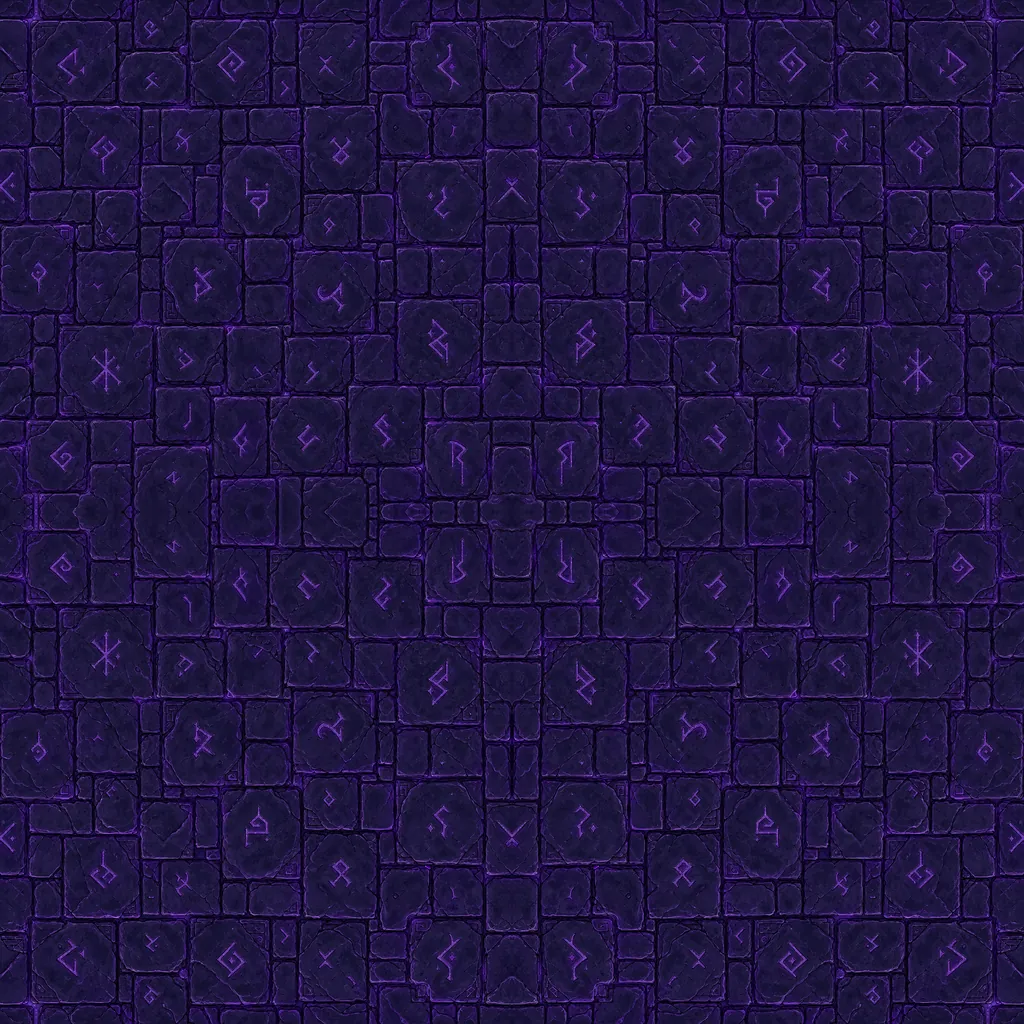
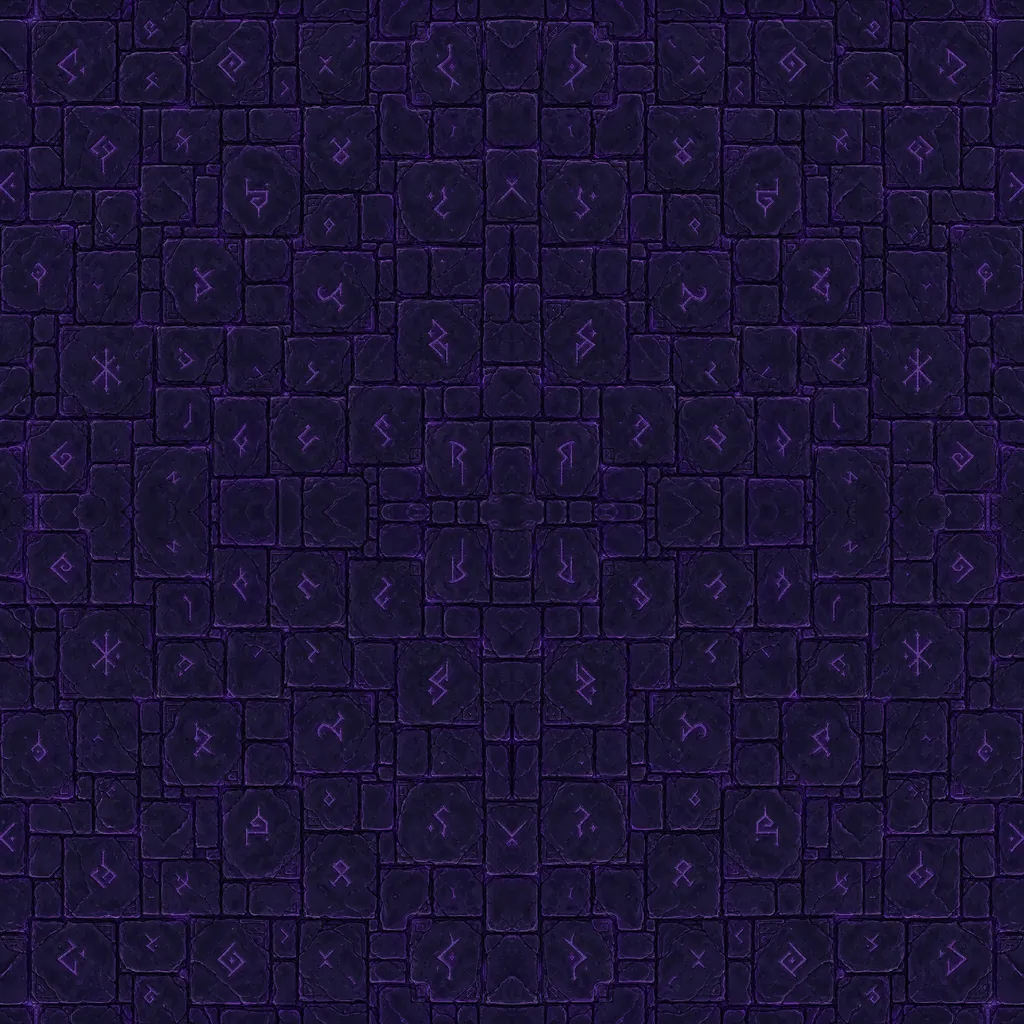
Stage environments and readability tweaks
- Twelve new painted scenery pieces, three per stage: cages, broken walls and
  racks (Undercroft); bone heaps, coffins and black water (Catacombs);
  statues, burning pews and stained glass (Cathedral); crystals, obsidian
  spires and rift cracks (Abyss). Tall pieces are depth-sorted and solid,
  flat ones lie on the floor, glowing ones light the dark
- Floors toned to a richer middle brightness
- Fewer normal damage numbers in big fights; crits and big hits always show

Claude-Session: https://claude.ai/code/session_01Y7EHTCx1VVqY7PxuTGtBVF

diff --git a/index.html b/index.html
@@ -1203,6 +1203,7 @@ window.addEventListener('resize', resize); resize();
 
 /* ---------------- Painted art: loading and sprite caches ---------------- */
 const IMG = {}, SPR = {};
+const STAGE_ENV_LIST = { undercroft: ['env_cage', 'env_wall', 'env_rack'], catacombs: ['env_bones', 'env_coffin', 'env_puddle'], cathedral: ['env_statue', 'env_pew', 'env_glass'], abyss: ['env_crystal', 'env_spire', 'env_crack'] };
 const IMG_NAMES = [
   ...['knight', 'sorcerer', 'pyromancer', 'wanderer', 'cleric'].map(k => 'hero_' + k),
   ...['hollow', 'rat', 'skeleton', 'wraith', 'cultist', 'dknight'].map(k => 'foe_' + k),
@@ -1213,6 +1214,7 @@ const IMG_NAMES = [
   ...['wood', 'iron', 'ember'].flatMap(k => [`chest_${k}_0`, `chest_${k}_1`]),
   'cur_gold', 'cur_sigil', 'cur_ember', 'prop_urn',
   ...['pillar', 'brazier', 'candles', 'tomb', 'shrine'].map(k => 'prop_' + k),
+  ...Object.values(STAGE_ENV_LIST).flat(),
   ...['undercroft', 'catacombs', 'cathedral', 'abyss'].flatMap(k => ['floor_' + k, 'stage_' + k]),
 ];
 const assetUrl = n => 'assets/' + n + '.webp';
@@ -1404,10 +1406,16 @@ function setFloor(st) {
 /* ---------------- World features ---------------- */
 const CHUNK = 480;
 const chunkCache = new Map();
+// per-stage scenery: tall pieces are depth-sorted and solid, flat pieces lie on the floor
+const STAGE_ENV = { undercroft: ['env_cage', 'env_wall', 'env_rack'], catacombs: ['env_bones', 'env_coffin', 'env_puddle'], cathedral: ['env_statue', 'env_pew', 'env_glass'], abyss: ['env_crystal', 'env_spire', 'env_crack'] };
+const ENV_FLAT = new Set(['env_puddle', 'env_glass', 'env_crack']);
+const ENV_H = { env_cage: 88, env_wall: 70, env_rack: 66, env_bones: 46, env_coffin: 58, env_puddle: 96, env_statue: 104, env_pew: 54, env_glass: 76, env_crystal: 86, env_spire: 112, env_crack: 100 };
+const ENV_R = { env_cage: 30, env_wall: 30, env_rack: 22, env_bones: 0, env_coffin: 24, env_statue: 22, env_pew: 0, env_crystal: 24, env_spire: 18 };
+const ENV_GLOW = { env_puddle: '80,220,200', env_statue: '255,140,60', env_pew: '255,150,60', env_crystal: '190,120,255', env_spire: '170,100,255', env_crack: '190,110,255', env_coffin: '80,220,180' };
 function chunkAt(cx, cy) {
-  const key = cx + ',' + cy; let c = chunkCache.get(key);
+  const sg = G ? G.stage : 0, key = cx + ',' + cy + ',' + sg; let c = chunkCache.get(key);
   if (c) return c;
-  c = { pillar: null, decals: [] };
+  c = { pillar: null, decals: [], env: [] };
   if (!(Math.abs(cx) <= 0 && Math.abs(cy) <= 0)) {
     if (hash(cx, cy, 1) < 0.5) {
       const r = 20 + hash(cx, cy, 2) * 12;
@@ -1428,14 +1436,25 @@ function chunkAt(cx, cy) {
     if (kind === 'candles') { p.c = []; const n = 3 + Math.floor(hash(cx, i, 35) * 3); for (let k = 0; k < n; k++) p.c.push([(hash(k, cx, 36) - 0.5) * 18, (hash(k, cy, 37) - 0.5) * 7, 5 + hash(k, i, 38) * 9]); }
     c.props.push(p);
   }
+  const kinds = STAGE_ENV[STAGES[sg].id];
+  if (kinds && !(cx === 0 && cy === 0)) for (let i = 0; i < 3; i++) {
+    const h = hash(cx * 11 + i, cy * 13 - i, 41); if (h > 0.5) continue;
+    const x = cx * CHUNK + 50 + hash(cx, cy + i, 42) * (CHUNK - 100), y = cy * CHUNK + 50 + hash(cx + i, cy, 43) * (CHUNK - 100);
+    if (c.pillar && Math.hypot(x - c.pillar.x, y - c.pillar.y) < 110) continue;
+    if (c.env.some(e => Math.hypot(x - e.x, y - e.y) < 120)) continue;
+    const kind = kinds[Math.floor(hash(cx * 3 + i, cy, 44) * kinds.length) % kinds.length];
+    c.env.push({ x, y, kind, flip: hash(cx, cy * 5 + i, 45) < 0.5 ? -1 : 1, s: 0.85 + hash(cx + i * 7, cy, 46) * 0.35, flat: ENV_FLAT.has(kind), r: (ENV_R[kind] || 0) });
+  }
   if (chunkCache.size > 4000) chunkCache.clear();
   chunkCache.set(key, c); return c;
 }
 function collidePillar(o) {
   const c = chunkAt(Math.floor(o.x / CHUNK), Math.floor(o.y / CHUNK));
-  const p = c.pillar; if (!p) return;
-  const dx = o.x - p.x, dy = o.y - p.y, rr = p.r + o.r, dd = dx * dx + dy * dy;
-  if (dd < rr * rr) { const d = Math.sqrt(dd) || 1; o.x = p.x + dx / d * rr; o.y = p.y + dy / d * rr; }
+  const p = c.pillar;
+  if (p) { const dx = o.x - p.x, dy = o.y - p.y, rr = p.r + o.r, dd = dx * dx + dy * dy;
+    if (dd < rr * rr) { const d = Math.sqrt(dd) || 1; o.x = p.x + dx / d * rr; o.y = p.y + dy / d * rr; } }
+  for (const e of c.env) { if (!e.r) continue; const ey = e.y - 6, dx = o.x - e.x, dy = o.y - ey, rr = e.r * e.s + o.r, dd = dx * dx + dy * dy;
+    if (dd < rr * rr) { const d = Math.sqrt(dd) || 1; o.x = e.x + dx / d * rr; o.y = ey + dy / d * rr; } }
 }
 
 /* ---------------- Definitions ---------------- */
@@ -1810,7 +1829,7 @@ function damageEnemy(e, dmg, kx = 0, ky = 0) {
   e.hp -= dmg; e.flash = 0.08; G.dmgDealt += dmg;
   if (G.mode === 'wboss' && e.boss) G.dun.wdmg = (G.dun.wdmg || 0) + dmg;
   if (!e.boss) { const m = 1 / e.mass; e.kbx += kx * m; e.kby += ky * m; }
-  if (G.texts.length < 90) G.texts.push({ x: e.x + rand(-10, 10), y: e.y - e.r - 6, v: Math.round(dmg), t: 0, big: dmg > 60, crit, vx: rand(-14, 14) });
+  if (G.texts.length < (crit || dmg > 60 ? 50 : 14)) G.texts.push({ x: e.x + rand(-10, 10), y: e.y - e.r - 6, v: Math.round(dmg), t: 0, big: dmg > 60, crit, vx: rand(-14, 14) });
   if (G.parts.length < 520) for (let i = 0; i < (crit ? 5 : 2); i++) { const a = Math.random() * TAU, sp = rand(60, 180); G.parts.push({ x: e.x, y: e.y - 4, vx: Math.cos(a) * sp, vy: Math.sin(a) * sp, t: 0, life: 0.18, c: crit ? 'rgba(255,190,90,1)' : 'rgba(255,240,210,0.9)', s: 1.3, glow: true }); }
   SND.hit();
   if (e.hp <= 0) killEnemy(e);
@@ -3000,6 +3019,15 @@ function drawPropGlow(p) {
     for (let i = 0; i < 8; i++) { const a1 = p.rot - t * 0.3 + i / 8 * TAU; c.fillStyle = `rgba(${gc},${a + 0.2})`; c.fillRect(p.x + Math.cos(a1) * 24.5 - 1, p.y + Math.sin(a1) * 24.5 - 1, 2, 2); }
   }
 }
+function drawEnvFlat(e) {
+  const s = spr(e.kind, Math.round(ENV_H[e.kind])); if (!s) return;
+  const w = s.w * e.s, h = s.h * e.s; ctx.drawImage(s.c, e.x - w / 2, e.y - h / 2, w, h);
+}
+function drawEnvTall(e) {
+  const s = spr(e.kind, Math.round(ENV_H[e.kind])); if (!s) return;
+  shadowAt(ctx, e.x, e.y - 2, s.w * e.s * 0.42, s.w * e.s * 0.14, 0.42);
+  blit(ctx, s, e.x, e.y + 6, e.flip, 0, e.s, e.s, 0);
+}
 function drawPillar(p) {
   const c = ctx, r = p.r;
   const ps = spr(p.brazier ? 'prop_brazier' : 'prop_pillar', p.brazier ? SPR_H.prop_brazier : Math.round(r * 2.8));
@@ -3185,7 +3213,9 @@ function render() {
   c.fillStyle = floorPattern; c.fillRect(v.x0, v.y0, v.x1 - v.x0, v.y1 - v.y0);
   const cx0 = Math.floor(v.x0 / CHUNK), cx1 = Math.floor(v.x1 / CHUNK), cy0 = Math.floor(v.y0 / CHUNK), cy1 = Math.floor(v.y1 / CHUNK);
   const pillars = [], props = [];
-  for (let x = cx0; x <= cx1; x++) for (let y = cy0; y <= cy1; y++) { const ch = chunkAt(x, y); for (const d of ch.decals) drawDecal(d); if (ch.pillar) pillars.push(ch.pillar); for (const p of ch.props) props.push(p); }
+  const envs = [];
+  for (let x = cx0; x <= cx1; x++) for (let y = cy0; y <= cy1; y++) { const ch = chunkAt(x, y); for (const d of ch.decals) drawDecal(d); if (ch.pillar) pillars.push(ch.pillar); for (const p of ch.props) props.push(p); for (const e of ch.env) envs.push(e); }
+  for (const e of envs) if (e.flat) drawEnvFlat(e);
   for (const p of props) drawProp(p);
   if (G.flameF) drawVigil();
   c.globalAlpha = 0.5; for (const d of G.decals) if (d.x > v.x0 && d.x < v.x1 && d.y > v.y0 && d.y < v.y1) drawGore(d); c.globalAlpha = 1;
@@ -3245,13 +3275,14 @@ function render() {
   const ents = [];
   for (const e of G.enemies) if (e.x > v.x0 && e.x < v.x1 && e.y > v.y0 && e.y < v.y1 + 40) ents.push(e);
   for (const p of pillars) ents.push({ pillar: p, y: p.y });
+  for (const e of envs) if (!e.flat) ents.push({ envp: e, y: e.y });
   ents.push({ player: true, y: P.y });
   if (G.fam) ents.push({ famEnt: true, y: G.fam.y + 40 });
   ents.sort((a, b) => a.y - b.y);
   EYES.length = 0;
   for (const p of G.parts) if (p.ghost) { c.globalAlpha = 0.35 * (1 - p.t / p.life); c.fillStyle = (LOOKS[P.cls] || LOOKS.knight).cloak; ellipse(c, p.x, p.y - 2, 8, 11); }
   c.globalAlpha = 1;
-  for (const e of ents) { if (e.pillar) drawPillar(e.pillar); else if (e.player) drawPlayer(); else if (e.famEnt) drawFam(); else drawEnemy(e); }
+  for (const e of ents) { if (e.pillar) drawPillar(e.pillar); else if (e.envp) drawEnvTall(e.envp); else if (e.player) drawPlayer(); else if (e.famEnt) drawFam(); else drawEnemy(e); }
   for (const e of ents) if (e.stun > 0 || e.broken > 0) { const hy = e.y - (e.boss ? 150 : 52); for (let i = 0; i < 3; i++) { const a = G.t * 5 + i * TAU / 3, sx = e.x + Math.cos(a) * (e.boss ? 26 : 12), sy = hy + Math.sin(a) * 4; c.fillStyle = '#ffe08a'; c.save(); c.translate(sx, sy); c.rotate(Math.PI / 4); c.fillRect(-3, -3, 6, 6); c.restore(); } }
   if (G.boss && G.boss.phase === 'swipeTele') {
     const b = G.boss, R = b.r + 95, k = 1 - Math.max(0, b.ct) / 0.7, gold = b.ct < 0.32;
@@ -3317,6 +3348,7 @@ function render() {
   for (const p of props) if (p.kind === 'candles') lights.push([p.x, p.y - 6, 120 * (1 + Math.sin(G.t * 10 + p.rot) * 0.06), 0.8]); else if (p.kind === 'rune') lights.push([p.x, p.y, 80, 0.45]);
   for (const s of G.shrines) if (!s.used || s.t < 500) lights.push([s.x, s.y - 14, s.used ? 120 : 220, 0.95]);
   for (const ch of G.chests) lights.push([ch.x, ch.y, 110, 0.85]);
+  for (const e of envs) if (ENV_GLOW[e.kind]) lights.push([e.x, e.y - (e.flat ? 0 : 30), 110 * e.s, 0.55]);
   if (G.crystal) lights.push([G.crystal.x, G.crystal.y - 30, 280, 1]);
   let nl = 0;
   for (const p of G.proj) { if (nl >= 18) break; if (p.kind === 'fire' || p.kind === 'lance' || p.kind === 'scythe') { nl++; lights.push([p.x, p.y, 100, 0.75]); } else if (p.kind === 'meteor' && p.t > 0) { nl++; lights.push([p.x, p.y, 70 + 160 * p.t / p.dur, 0.85]); } else if (p.kind === 'rift') { nl++; lights.push([p.x, p.y, p.r * 1.6, 0.55]); } else if (p.kind === 'toll' && p.t >= 0) { nl++; lights.push([p.x, p.y, p.r * 1.2 + 40, 0.6 * (1 - p.t / p.dur)]); } }
@@ -3592,7 +3624,7 @@ function drawHUD() {
     c.font = '700 13px Cinzel, Georgia, serif'; c.fillStyle = Math.sin(performance.now() / 160) > 0 ? '#ff6a4a' : '#ffb08a';
     c.fillText('THE HORDE COVETS YOUR LIGHT', W / 2, hy);
     hudBar(c, hx, hy + 18, hw, 6, left / G.horde.dur, 0, '#ff5a3a', '#7a1408');
-  } else if (nextBell && !G.boss) { c.font = 'italic 600 14px "Cormorant Garamond", Georgia, serif'; c.fillStyle = nextBell - G.t < 20 ? '#ff7a5a' : '#958a9c'; c.fillText('The bell tolls in ' + fmtTime(nextBell - G.t), W / 2, 98); }
+  } else if (nextBell && !G.boss) { c.font = "italic 700 14px 'Alegreya Sans', sans-serif"; c.fillStyle = nextBell - G.t < 20 ? '#ff7a5a' : '#958a9c'; c.fillText('The bell tolls in ' + fmtTime(nextBell - G.t), W / 2, 98); }
   // inventory: rounded tiles with level pips
   const UF = "'Alegreya Sans', 'Segoe UI', sans-serif";
   c.textAlign = 'left';
